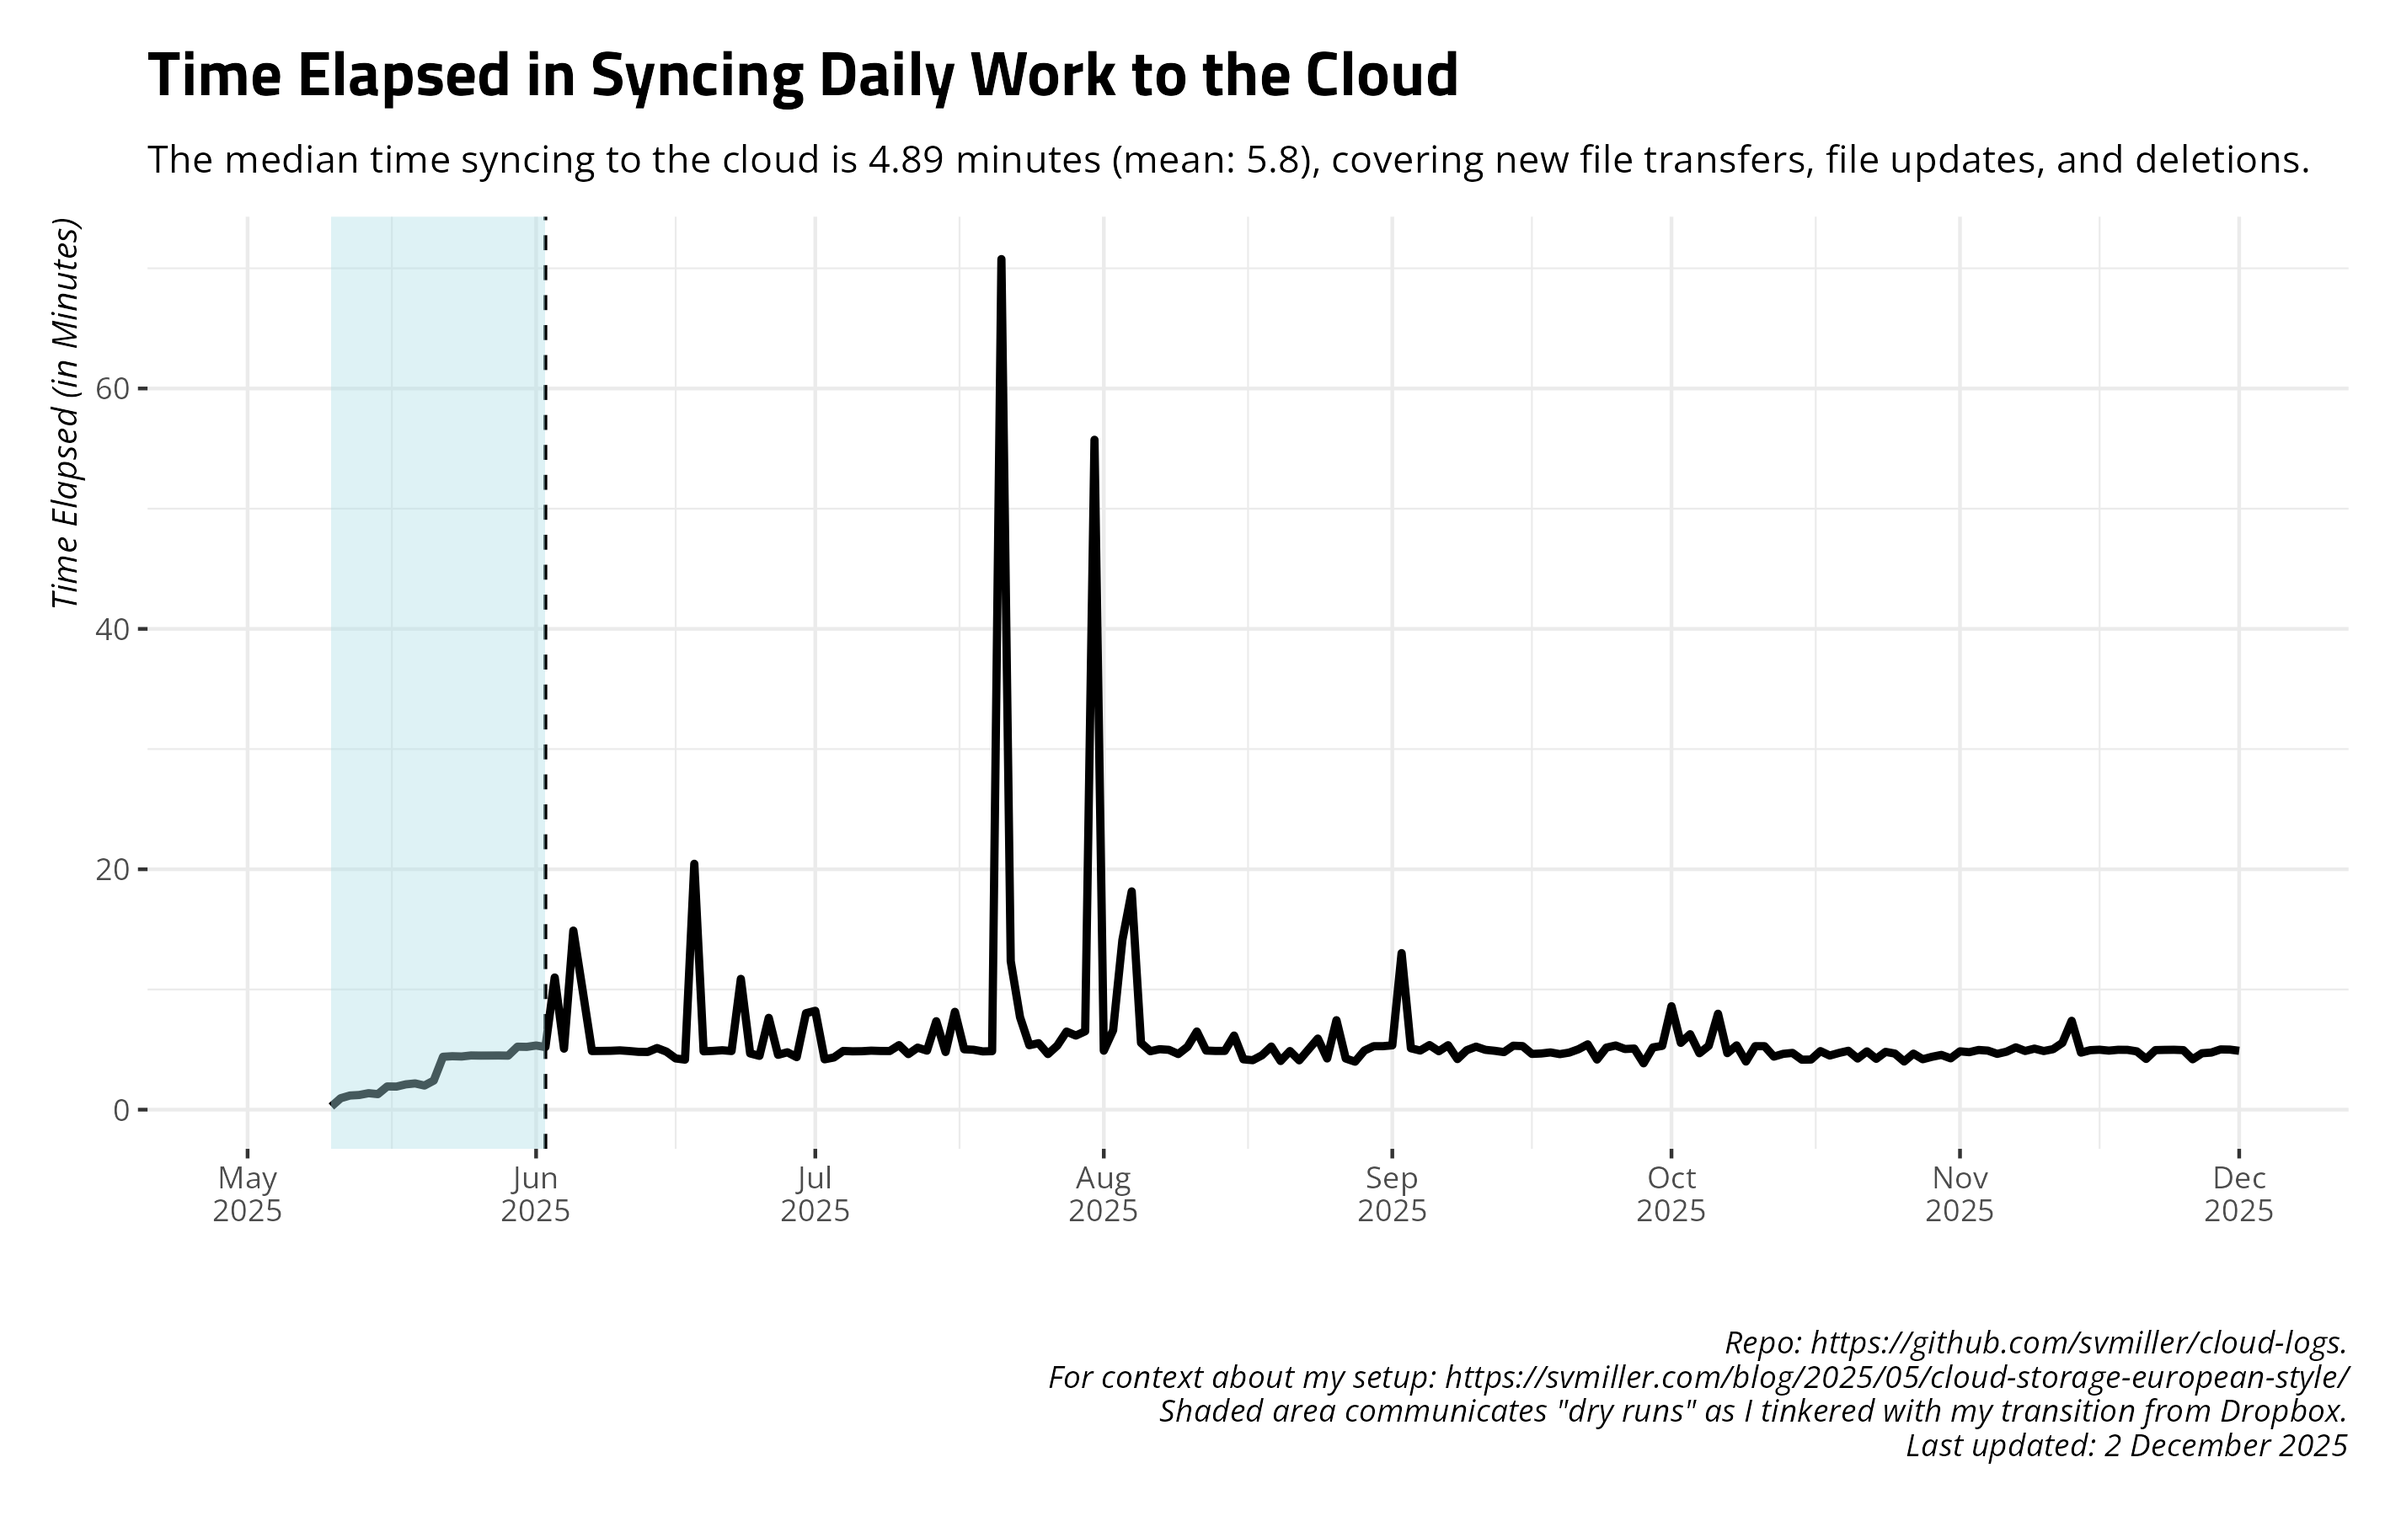
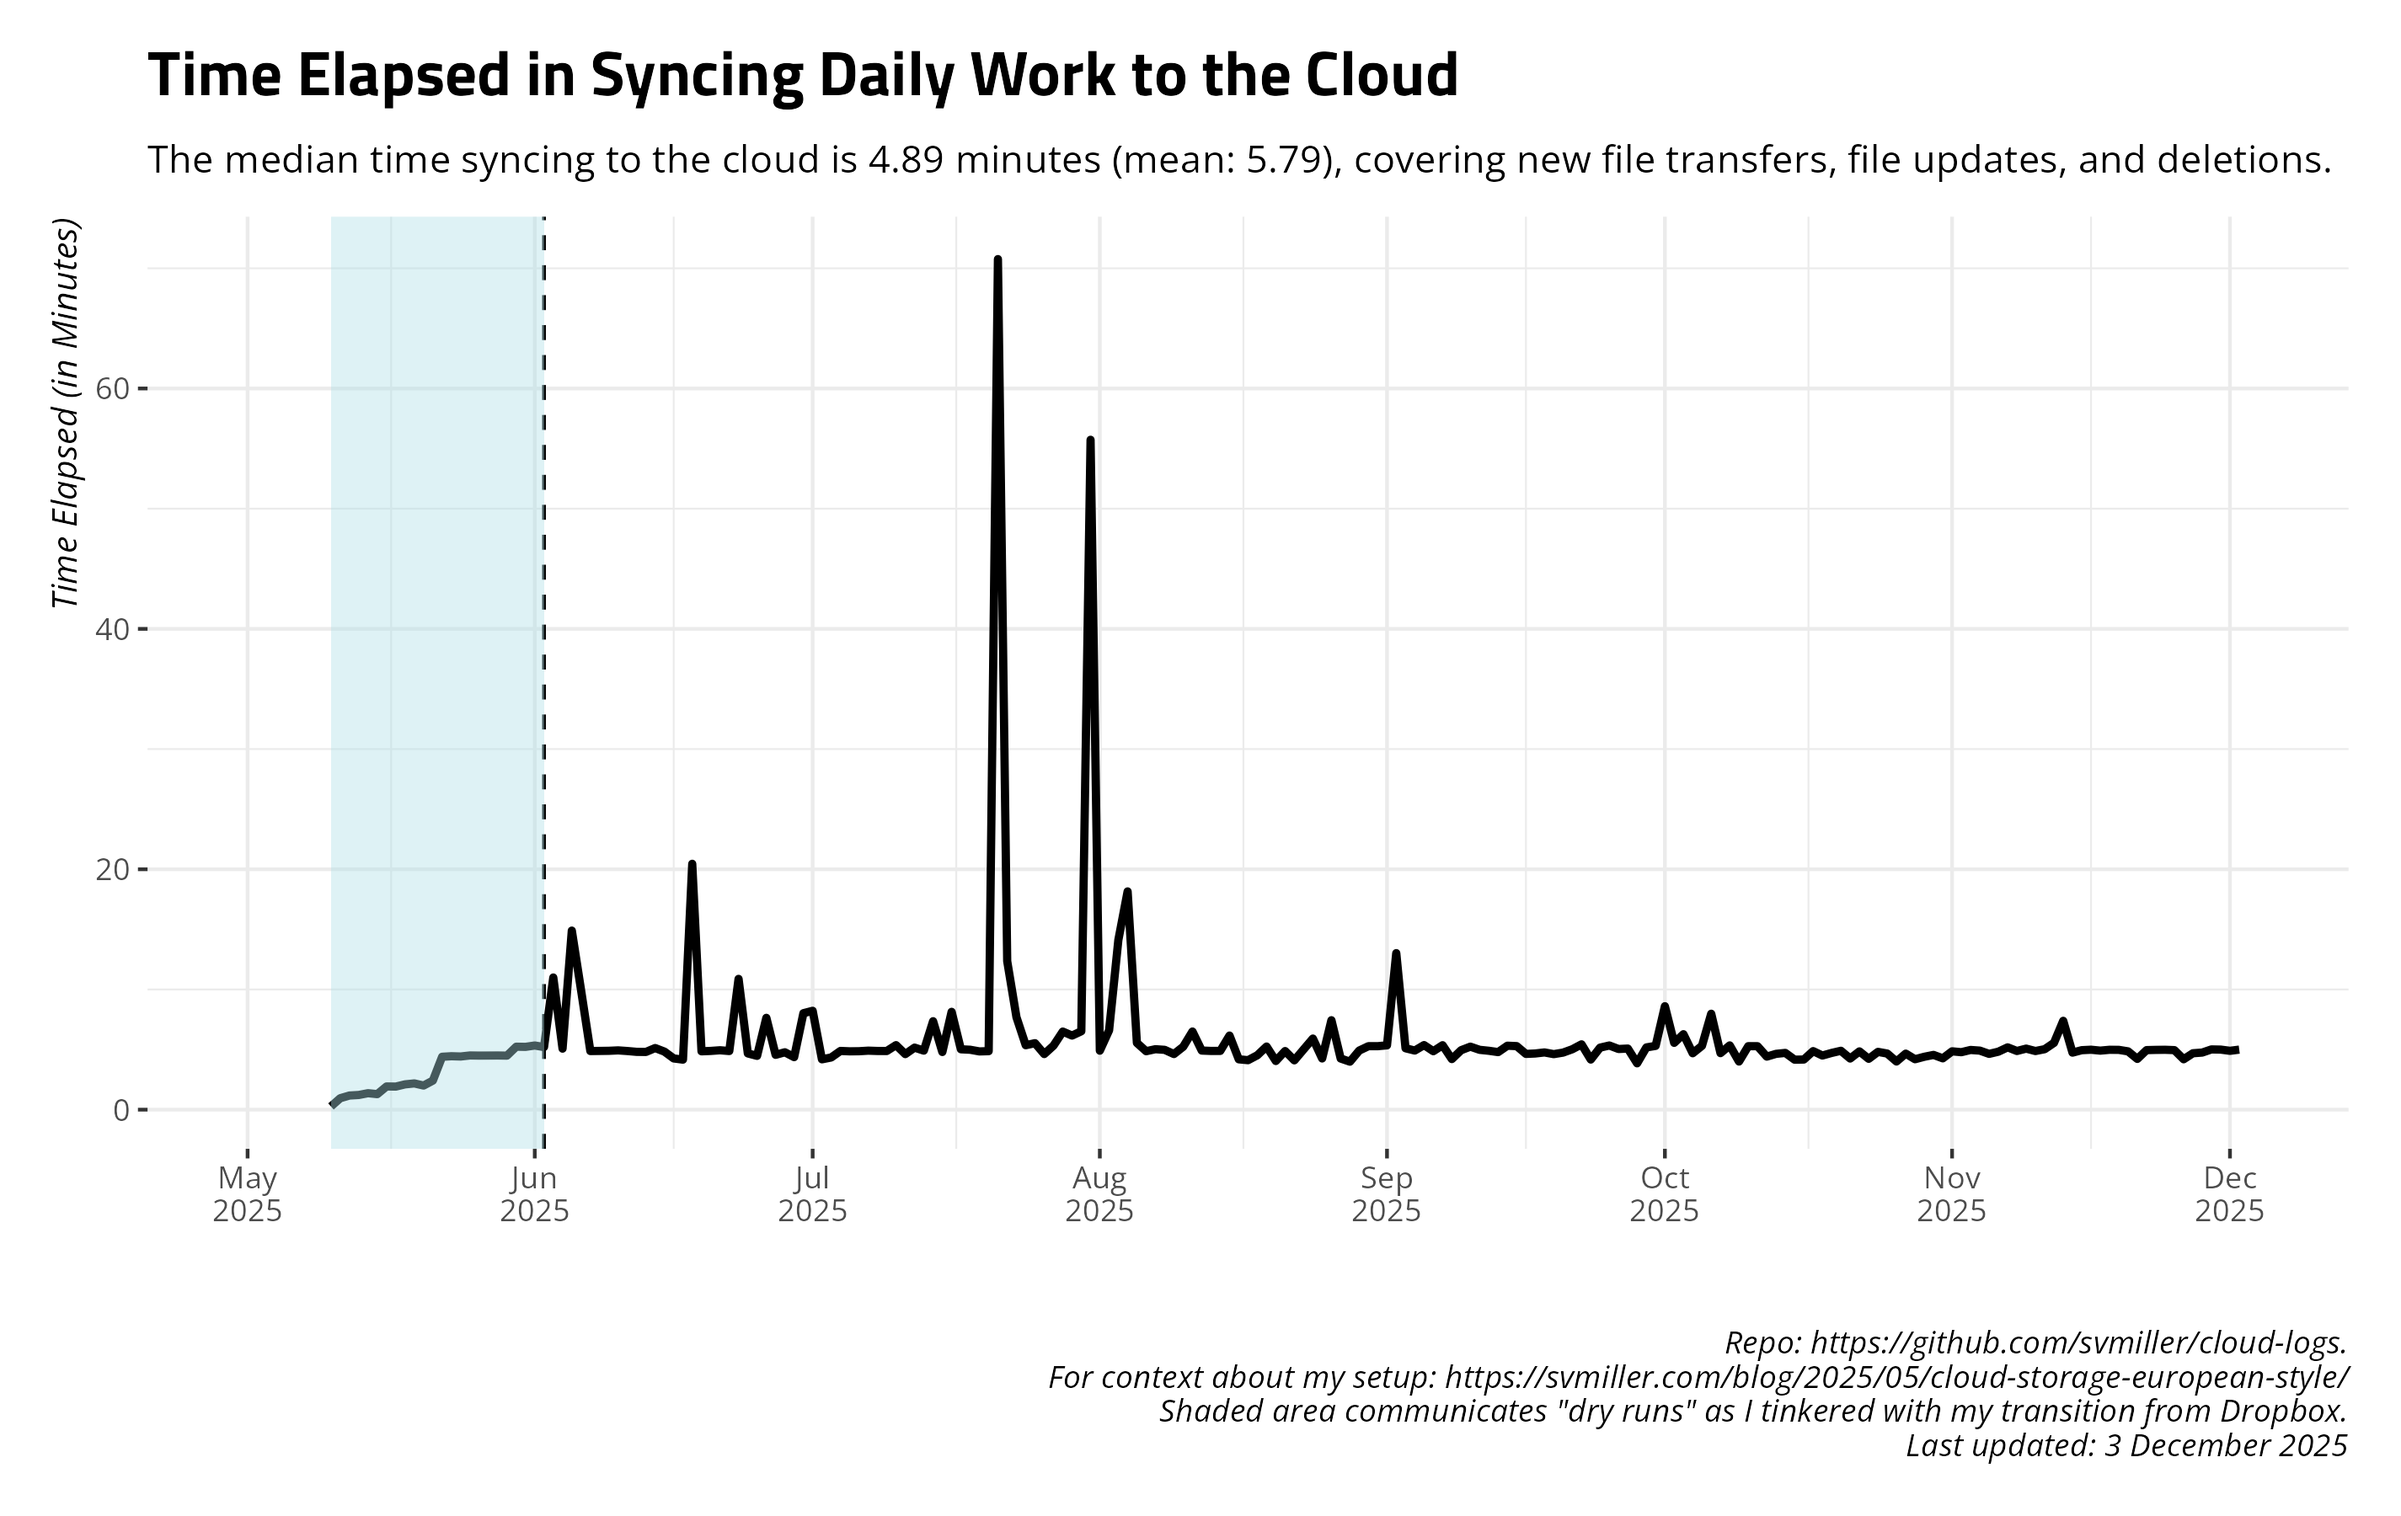
Date: 2025-12-03 09:00:18. Hi mom!

diff --git a/README.md b/README.md
@@ -27,17 +27,17 @@ and uploads to Github.
     #> # A tibble: 14 × 4
     #>    date       ftransfer stransfer   elapsed
     #>    <date>         <dbl> <chr>       <chr>  
-    #>  1 2025-11-18         4 1.671 MiB   4m58.9s
-    #>  2 2025-11-19        12 3.454 MiB   4m58.5s
-    #>  3 2025-11-20         5 289.079 KiB 4m51.0s
-    #>  4 2025-11-21        96 19.696 MiB  4m13.3s
-    #>  5 2025-11-22         0 <NA>        4m57.3s
-    #>  6 2025-11-23         0 <NA>        4m58.4s
-    #>  7 2025-11-24         9 381.388 KiB 4m58.9s
-    #>  8 2025-11-25        46 877.675 KiB 4m57.2s
-    #>  9 2025-11-26       144 2.174 MiB   4m11.5s
-    #> 10 2025-11-27        71 85.606 MiB  4m41.6s
-    #> 11 2025-11-28       104 5.950 MiB   4m45.0s
-    #> 12 2025-11-29         2 3.240 KiB   5m0.7s 
-    #> 13 2025-11-30         7 58.153 KiB  4m59.8s
-    #> 14 2025-12-01        85 15.170 MiB  4m53.8s
+    #>  1 2025-11-19        12 3.454 MiB   4m58.5s
+    #>  2 2025-11-20         5 289.079 KiB 4m51.0s
+    #>  3 2025-11-21        96 19.696 MiB  4m13.3s
+    #>  4 2025-11-22         0 <NA>        4m57.3s
+    #>  5 2025-11-23         0 <NA>        4m58.4s
+    #>  6 2025-11-24         9 381.388 KiB 4m58.9s
+    #>  7 2025-11-25        46 877.675 KiB 4m57.2s
+    #>  8 2025-11-26       144 2.174 MiB   4m11.5s
+    #>  9 2025-11-27        71 85.606 MiB  4m41.6s
+    #> 10 2025-11-28       104 5.950 MiB   4m45.0s
+    #> 11 2025-11-29         2 3.240 KiB   5m0.7s 
+    #> 12 2025-11-30         7 58.153 KiB  4m59.8s
+    #> 13 2025-12-01        85 15.170 MiB  4m53.8s
+    #> 14 2025-12-02         9 18.048 KiB  4m59.7s
